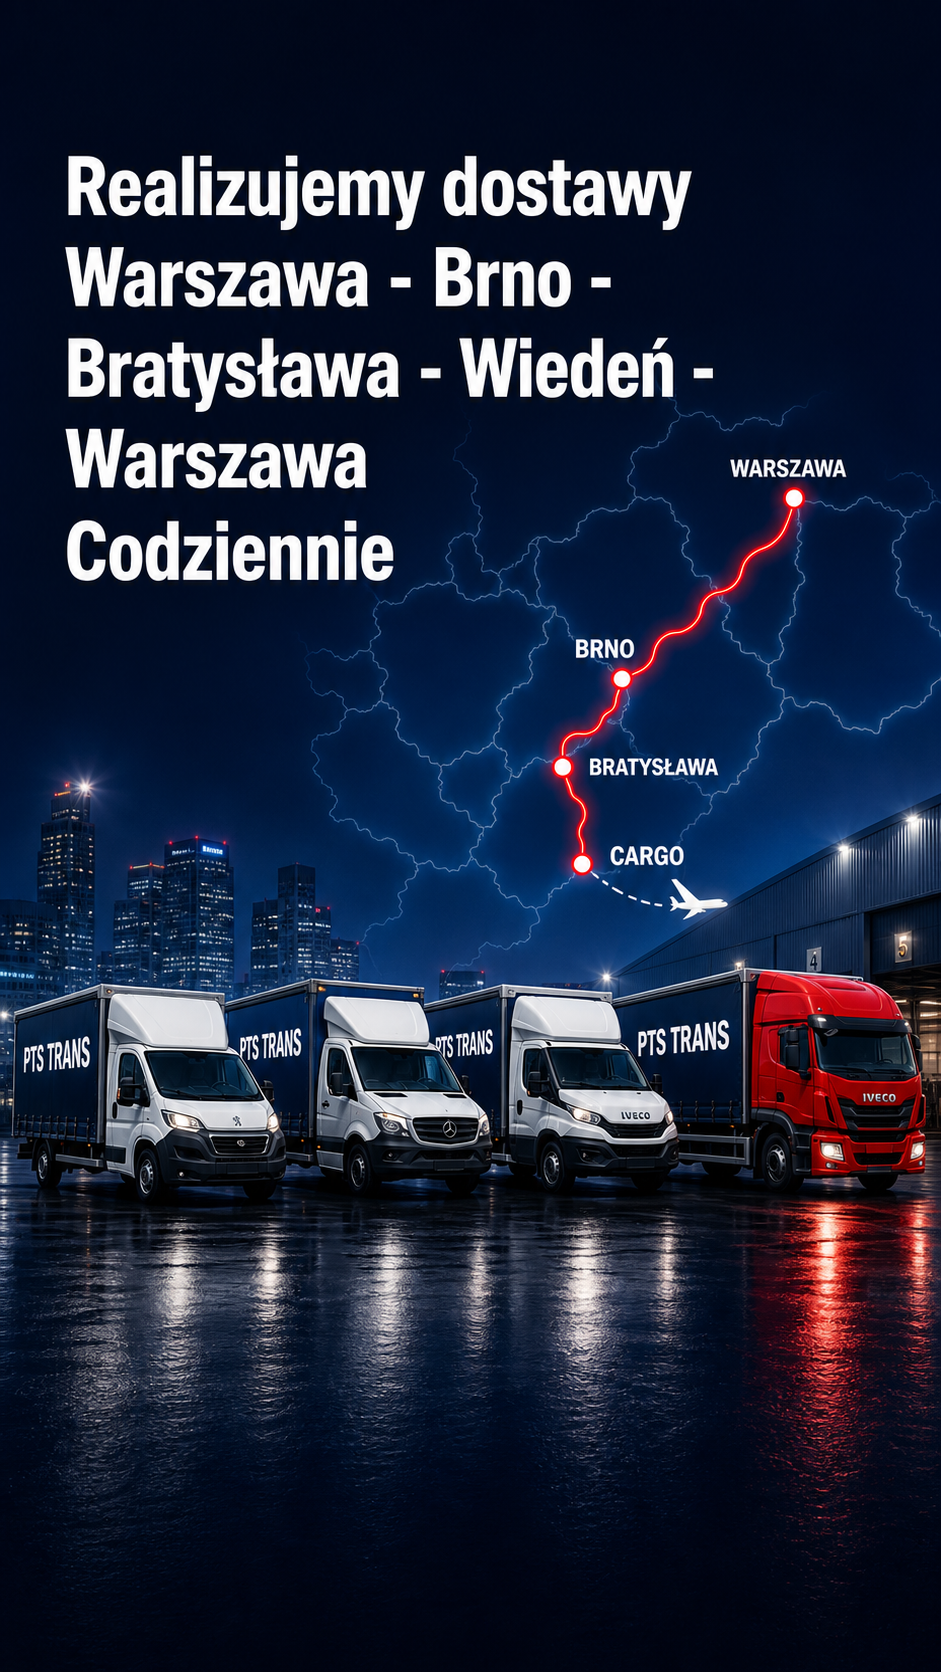
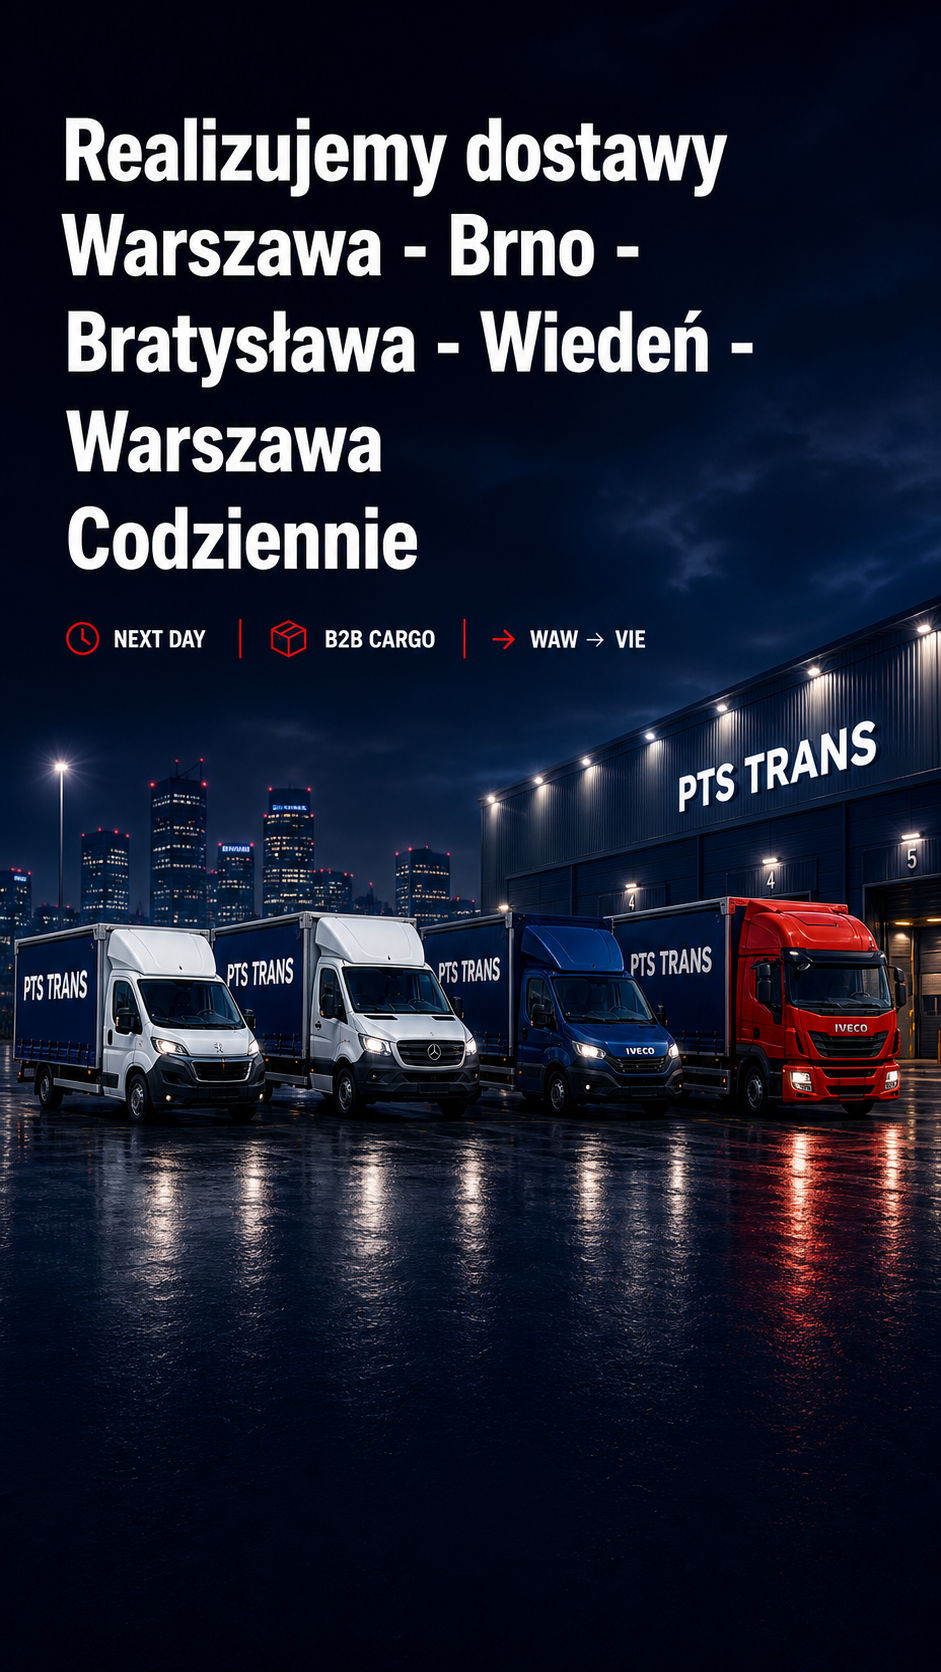
Fix header overlap and clean hero image

diff --git a/styles.css b/styles.css
@@ -1782,3 +1782,56 @@ section {
     font-size: 13px;
   }
 }
+
+/* Fixed header safety and clean no-map hero pass. */
+:root {
+  --site-header-height: 72px;
+}
+
+html {
+  scroll-padding-top: calc(var(--site-header-height) + 18px);
+}
+
+body {
+  padding-top: var(--site-header-height);
+}
+
+section {
+  scroll-margin-top: calc(var(--site-header-height) + 18px);
+}
+
+.site-header {
+  min-height: var(--site-header-height);
+}
+
+.site-nav {
+  top: var(--site-header-height);
+}
+
+.hero-generated {
+  min-height: calc(100svh - var(--site-header-height));
+}
+
+.hero-generated .hero-content {
+  padding-top: clamp(380px, 52svh, 520px);
+}
+
+@media (max-width: 640px) {
+  :root {
+    --site-header-height: 66px;
+  }
+
+  .hero-generated {
+    min-height: calc(100svh - var(--site-header-height));
+  }
+
+  .hero-generated .hero-content {
+    padding-top: 424px;
+  }
+}
+
+@media (max-width: 420px) {
+  .hero-generated .hero-content {
+    padding-top: 410px;
+  }
+}

diff --git a/index.html b/index.html
@@ -21,7 +21,7 @@
     <meta name="twitter:card" content="summary_large_image">
     <meta name="theme-color" content="#0f3d8f">
     <link rel="preload" as="image" href="assets/hero-next-day-map.webp" type="image/webp">
-    <link rel="stylesheet" href="styles.css?v=20260602-generated-text">
+    <link rel="stylesheet" href="styles.css?v=20260602-clean-hero">
     <script type="application/ld+json">
       {
         "@context": "https://schema.org",

diff --git a/README.md b/README.md
@@ -26,7 +26,7 @@ Aktualny raport kontroli produkcyjnej jest w [docs/production-qa.md](docs/produc
 
 ## Hero
 
-Aktualne grafiki hero renderowane na stronie to zoptymalizowane `assets/hero-next-day-map.webp` dla desktopu oraz `assets/hero-next-day-map-mobile.webp` dla telefonów. Pliki PNG/JPG zostają jako wersje źródłowe/fallback oraz podgląd Open Graph. Grafiki pokazują flotę, mapę Warszawa-Brno-Bratysława-Wiedeń, oznaczenie CARGO i branding PTS TRANS.
+Aktualne grafiki hero renderowane na stronie to zoptymalizowane `assets/hero-next-day-map.webp` dla desktopu oraz `assets/hero-next-day-map-mobile.webp` dla telefonów. Pliki PNG/JPG zostają jako wersje źródłowe/fallback oraz podgląd Open Graph. Hero pokazuje flotę i terminal cargo bez mapy w pierwszym ekranie; mapy tras są używane niżej w sekcji tras.
 
 ## Języki
 

diff --git a/docs/production-qa.md b/docs/production-qa.md
@@ -45,9 +45,10 @@ Sprawdzone viewporty:
 Wyniki:
 
 - brak poziomego scrolla na desktop i mobile
-- desktop ładuje poziome hero `assets/hero-next-day-map.webp`
-- mobile ładuje pionowe hero `assets/hero-next-day-map-mobile.webp`
+- desktop ładuje poziome hero `assets/hero-next-day-map.webp` bez mapy w pierwszym ekranie
+- mobile ładuje pionowe hero `assets/hero-next-day-map-mobile.webp` bez mapy w pierwszym ekranie
 - wygenerowany napis w hero mieści się w kadrze mobile bez ręcznej nakładki HTML
+- stały header ma własny offset strony i nie przykrywa treści hero ani sekcji po wejściu z menu
 - menu mobilne otwiera się poprawnie, ustawia `aria-expanded="true"` i klasę `is-open`
 - sekcja floty nie nachodzi już nagłówkiem na etykietę `FLOTA NA RELACJĘ`
 - obrandowane obrazy floty ładują się poprawnie po przewinięciu
